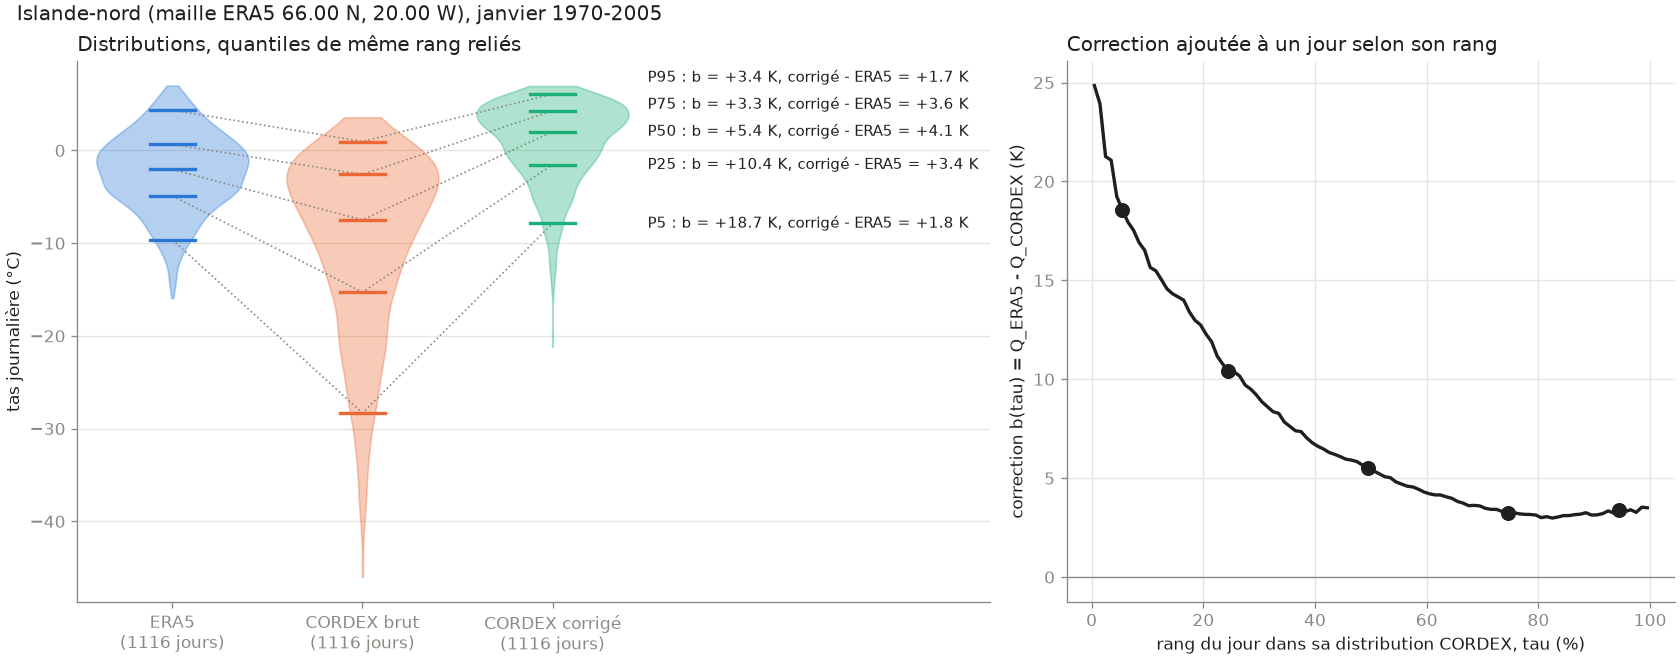
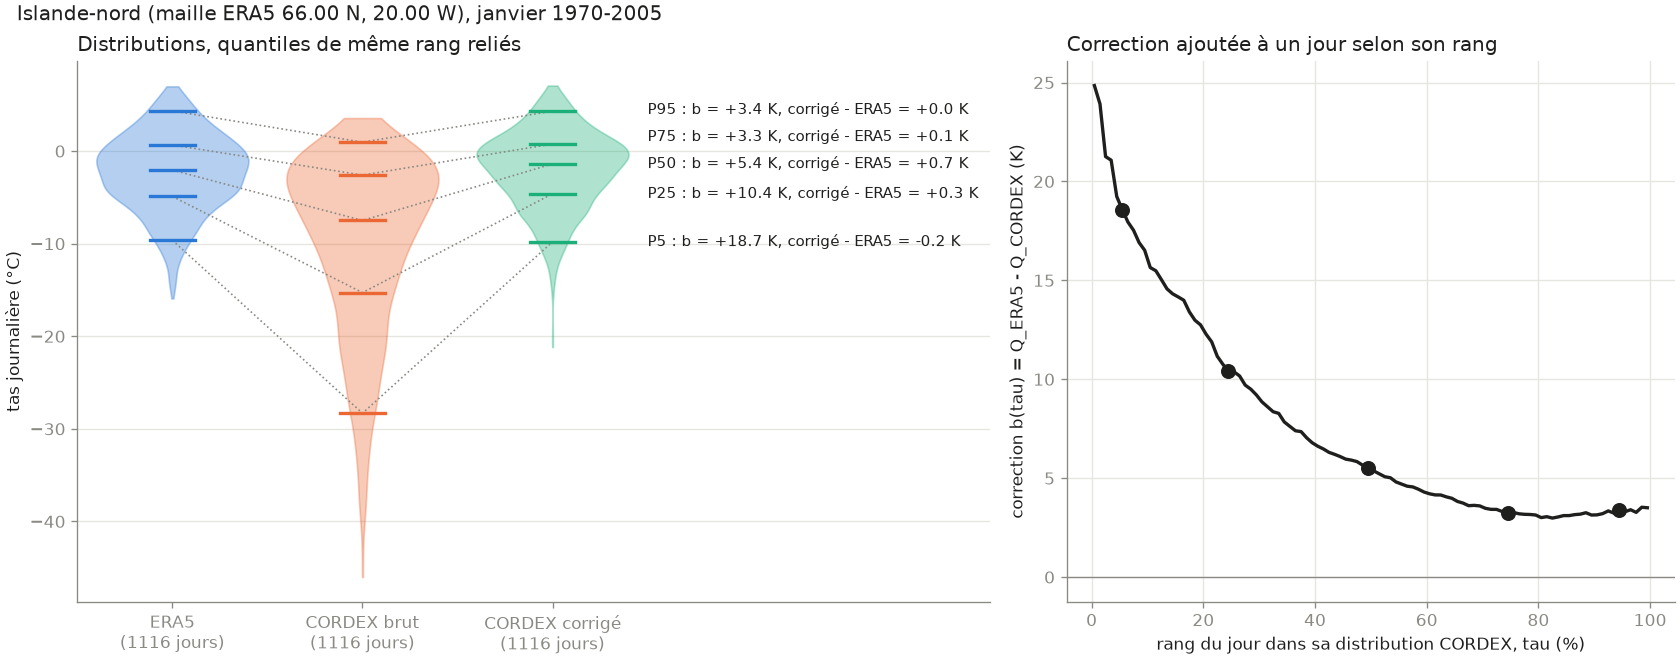
Documentation de la correction mise à jour après le correctif de qdm.py
- docs/correction.md : fenêtre lue brute, chiffres de Paris refaits, conservation du signal, limite glace et neige chiffrée (6 247 mailles), piste retenue, essai MBCn
- docs/notes_correction_glace.md : chiffres de l'Islande corrigés, note sur le bug
- figures/correction/ : violinplots de Paris et du nord de l'Islande régénérés

diff --git a/docs/correction.md b/docs/correction.md
@@ -24,6 +24,8 @@ Q(τ) est la température sous laquelle se trouvent une proportion τ des jours.
 2. pour chaque jour de janvier Y de valeur x, on calcule son rang τ parmi les janviers CORDEX de cette fenêtre ;
 3. la valeur corrigée est x + b(τ).
 
+La fenêtre est toujours lue brute. Une première version du script la lisait dans le tableau qu'il corrigeait au fur et à mesure : pour une année Y, les années de la fenêtre antérieures à Y étaient déjà corrigées. Corrigé le 26/09/2026, fichiers régénérés.
+
 ERA5 n'intervient que dans la calibration. La fenêtre glissante sert seulement à situer chaque jour dans le climat du modèle à son époque. Un jour de rang 20 % reçoit la même correction b(20 %) en 1987 et en 2080, même s'il est plus chaud en 2080 : le réchauffement simulé par le modèle, quantile par quantile, est conservé.
 
 Entre deux quantiles, τ et b sont interpolés linéairement. Sous 0,5 % et au-dessus de 99,5 %, on applique la correction du quantile extrême.
@@ -37,9 +39,9 @@ Entre deux quantiles, τ et b sont interpolés linéairement. Sous 0,5 % et au-d
 - Les moyennes brutes sont presque égales : 3,69 °C pour ERA5, 3,52 °C pour CORDEX. Une correction de la moyenne ajouterait +0,17 K à tous les jours.
 - Les formes diffèrent : CORDEX n'a presque pas de queue froide (minimum −8,7 °C contre −12,7 °C). Il est trop chaud de 1,2 K au P5, et trop froid de 0,2 à 0,6 K au-dessus du P25.
 - b(τ) refroidit donc les jours froids (jusqu'à −3 K pour le 1 % le plus froid) et réchauffe les autres de 0,2 à 0,6 K.
-- Après correction, l'écart à ERA5 est de −0,1 à +0,1 K entre P25 et P95, et de +0,2 K au P5. Le minimum corrigé est −11,7 °C.
+- Après correction, l'écart à ERA5 est de −0,1 à +0,1 K du P5 au P95. Le minimum corrigé est −11,7 °C, contre −12,7 °C pour ERA5.
 
-L'écart résiduel dans la queue froide a deux causes. D'une part, chaque année est classée dans sa propre fenêtre de 30 ans, pas dans 1970-2005. D'autre part, les quantiles extrêmes reposent sur une dizaine de jours.
+L'écart résiduel aux extrêmes a deux causes. D'une part, chaque année est classée dans sa propre fenêtre de 30 ans, pas dans 1970-2005. D'autre part, les quantiles extrêmes reposent sur une dizaine de jours.
 
 `python -m src.correction.violin tas 48.86 2.35 1 Paris`
 
@@ -49,15 +51,35 @@ L'écart résiduel dans la queue froide a deux causes. D'une part, chaque année
 
 **Validation croisée.** On calibre sur 1970-1987, puis on corrige et on compare à ERA5 sur 1988-2005. Le biais moyen passe de −1,1 à −2,5 K à une valeur entre −0,6 et +0,2 K, selon le mois. L'erreur quadratique entre mailles passe de 1,8 à 3,3 K à 0,5 à 1,7 K.
 
-**Conservation du signal.** On compare l'écart entre 2071-2100 et 1976-2005, avant et après correction. De mai à octobre, il est conservé à quelques centièmes de K près en moyenne sur le domaine.
+**Conservation du signal.** On compare l'écart entre 2071-2100 et 1976-2005, avant et après correction. En moyenne sur le domaine, il est conservé à 0,01 K près tous les mois. Maille par maille, l'écart sur la moyenne reste sous 0,9 K ; sur le P95, il atteint 7,9 K en hiver, dans les mailles décrites ci-dessous.
 
-**Limite identifiée.** En hiver, dans environ 2 000 mailles, le modèle a une surface qu'ERA5 n'a pas : banquise au nord de l'Islande et en mer de Barents, neige et glaciers des Alpes et du Caucase, Caspienne. Dans ces mailles, les jours froids de CORDEX sont trop froids de 15 à 25 K, alors que les jours chauds sont presque justes. Quand le modèle perd cette banquise ou cette neige dans le futur, le QDM déforme le signal : au nord de l'Islande, le P95 de janvier passe de +2,5 K (brut) à +14,5 K (corrigé). Le traitement de ces mailles reste à décider.
+**Limite identifiée.** Dans une partie des mailles, le modèle a une surface qu'ERA5 n'a pas, ou pas au même moment : banquise (nord de l'Islande, Barents, Botnie, mer Blanche), neige (Scandinavie, Russie du Nord, Alpes, Caucase). Les jours froids de CORDEX y sont trop froids de 15 à 25 K, alors que les jours chauds sont presque justes. La table b(τ) réchauffe alors fortement la queue froide. Quand le modèle perd cette glace ou cette neige dans le futur, cette correction s'applique à des jours qui ne sont plus sur de la glace ou de la neige.
+
+Exemple, nord de l'Islande (66 N, 20 W), janvier, 2071-2100 contre 1976-2005 : P50 +6,8 K brut, +6,3 K corrigé ; P95 +2,5 K brut, +5,9 K corrigé. La table passe de +25 K pour les jours les plus froids à +3 K pour les jours médians, plus vite que la température du modèle ne monte : l'ordre des jours s'inverse (corrélation de rang brut/corrigé −0,43), et 24 % des jours de janvier 2071-2100 corrigés dépassent le maximum de janvier d'ERA5 (7,0 °C). Le 13/01/2080, −12,9 °C brut devient +10,7 °C.
+
+![Nord de l'Islande, janvier, 2071-2100](../figures/correction/tas_islande-nord_01_futur_violin.png)
+
+Étendue : 6 247 mailles sur 53 573 ont, au moins un mois, un biais au P5 de plus de 10 K qui dépasse de plus de 7 K celui du P95 (seuils arbitraires). 1 393 en mer, 543 sur les côtes (`lsm` de 0,5 à 0,9), 4 311 sur terre, surtout en Russie du Nord (2 729) et en Scandinavie (1 517). Le problème est donc surtout celui de la neige sur terre.
+
+Piste retenue pour l'instant : garder le QDM, marquer ces mailles par un indicateur de fiabilité (par exemple la corrélation de rang entre brut et corrigé) et les masquer ou les signaler dans l'application. Le traitement de fond est reporté. Essais sur la glace de mer : `docs/notes_correction_glace.md`.
+
+## 5. Correction multivariée (MBCn) : essai
+
+MBCn (Cannon 2018) corrige plusieurs variables ensemble : QDM univarié de chaque variable, puis réordonnancement des jours pour reproduire les liens entre variables d'ERA5. Essai sur 5 mailles (Paris, Grenoble, Alpes 46,5 N 8 E, nord de l'Islande, Botnie), 6 variables : `tas`, amplitude diurne (`tasmax − tasmin`, avec `mx2t − mn2t` pour ERA5), `pr`, `hurs`, `sfcWind`, `rsds`. Réordonnancement à l'intérieur de chaque mois de chaque année, pour garder exactement la distribution univariée de l'année.
+
+- Distributions et réchauffement : identiques à l'univarié, par construction.
+- Liens entre variables (écart moyen des corrélations de rang à ERA5 sur 7 paires, validation croisée 1988-2005) : meilleurs dans 8 cas maille-saison sur 10, égaux dans 1, moins bons dans 1 (Paris en été). Gain le plus net aux Alpes en été (0,42 à 0,12).
+- Persistance : l'autocorrélation de `tas` d'un jour au suivant baisse, jusqu'à 0,1 (Alpes en hiver : 0,69 à 0,59, ERA5 0,79). Le lien pluie/rayonnement s'affaiblit (Paris en été : −0,69 ERA5, −0,62 univarié, −0,42 MBCn).
+- Coût : 0,14 s par transformation N-pdf, soit environ 140 jours de calcul sur un cœur pour le domaine avec le script d'essai ; à réduire par vectorisation et pas de 10 ans, non mesuré.
+- Aux Alpes, en été, CORDEX brut est à 0 °C contre 8,3 °C pour ERA5, et le lien température/rayonnement a le mauvais signe : signature probable d'une surface enneigée, à confirmer.
+
+Pas de décision prise. Scripts : `data/correction/tests_mbcn/` (non versionnés).
 
 ## Fichiers
 
 | Fichier | Contenu |
 |---|---|
 | `data/correction/poids_eur11_era5.npz` | poids du remappage CORDEX vers ERA5 |
-| `data/correction/tas_quantiles_1970-2005.nc` | quantiles ERA5 et CORDEX par mois et par maille |
+| `LaCie/.../correction/tas_quantiles_1970-2005.nc` | quantiles ERA5 et CORDEX par mois et par maille |
 | `LaCie/.../cordex/eur11_025/` | CORDEX remappé à 0,25°, brut |
 | `LaCie/.../cordex/eur11_025_qdm/` | CORDEX remappé à 0,25°, corrigé |

diff --git a/docs/notes_correction_glace.md b/docs/notes_correction_glace.md
@@ -4,7 +4,9 @@ Notes de travail, état au 26/09/2026. Méthode de base décrite dans `docs/corr
 
 ## Le problème
 
-Le QDM actuel de `tas` échoue là où le modèle a de la banquise qu'ERA5 n'a pas. La table b(τ) apprend un fort réchauffement de la queue froide (jusqu'à +25 K) sur des jours de banquise. Quand le modèle perd sa glace, ce réchauffement s'applique à des jours d'eau libre. Nord de l'Islande (66 N, 20 W), janvier, 2071-2100 : P50 brut −1,0 °C, corrigé +11,6 °C.
+Le QDM actuel de `tas` échoue là où le modèle a de la banquise qu'ERA5 n'a pas. La table b(τ) apprend un fort réchauffement de la queue froide (jusqu'à +25 K) sur des jours de banquise. Quand le modèle perd sa glace, ce réchauffement s'applique à des jours d'eau libre. Nord de l'Islande (66 N, 20 W), janvier, 2071-2100 : P50 brut −1,0 °C, corrigé +4,8 °C ; 24 % des jours corrigés dépassent le maximum de janvier d'ERA5 (7,0 °C), et l'ordre des jours s'inverse (corrélation de rang brut/corrigé −0,43).
+
+Mise à jour du 26/09/2026 : les chiffres « QDM actuel » cités jusqu'ici venaient de fichiers produits avec un bug de `qdm.py` (fenêtre glissante lue en partie déjà corrigée), corrigé depuis. Le problème de la glace demeure, un peu moins marqué (13/01/2080 : +10,7 °C au lieu de +11,9 °C). Les variantes testées ci-dessous lisaient la fenêtre brute et ne sont pas touchées, sauf leur comparaison au « QDM actuel ». Suite et décision provisoire : `docs/correction.md`, section 4.
 
 ## Données réunies
 
